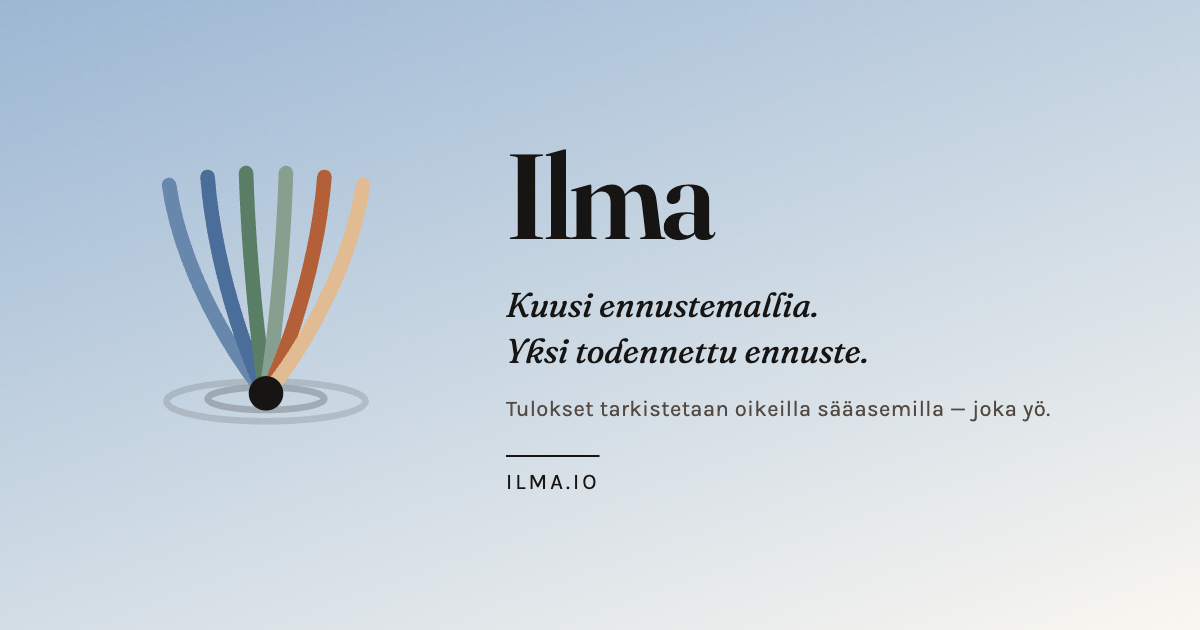
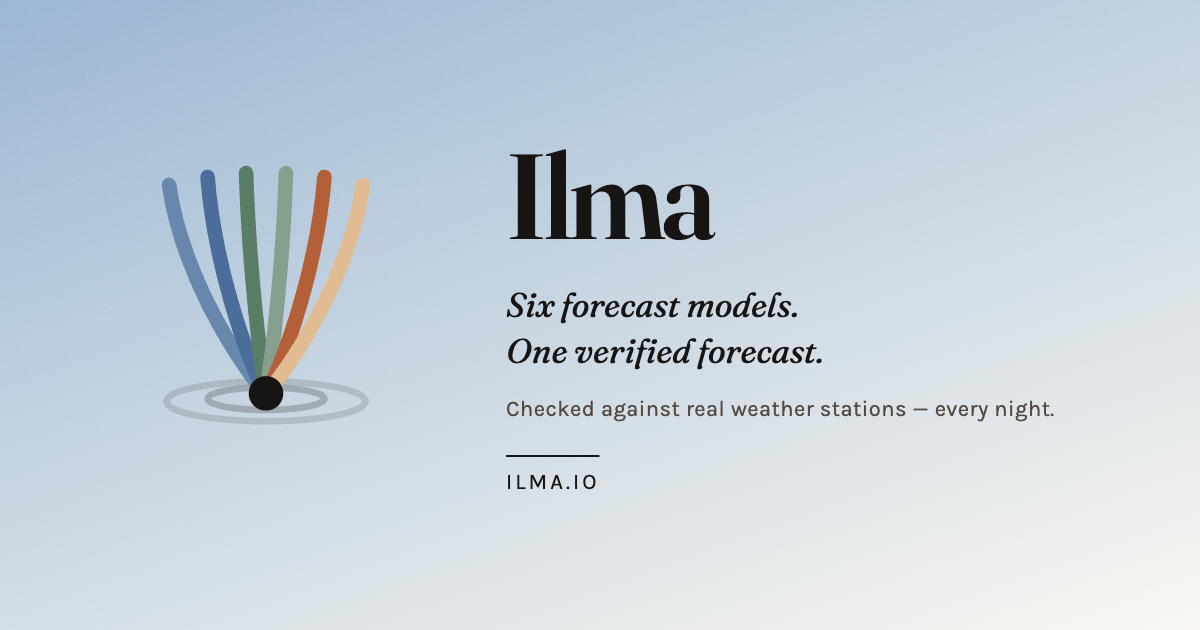
Social share card in English
Matches the new English-default site; re-rendered og.png from
design/og-image.html.

Claude-Session: https://claude.ai/code/session_01SqeeMnWqkFyrPerSjqLPGJ

Changed region(s): [[0.4008, 0.4524, 0.74, 0.6032], [0.4008, 0.6333, 0.8942, 0.6635]]

diff --git a/design/og-image.html b/design/og-image.html
@@ -46,8 +46,8 @@
   </div>
   <div class="txt">
     <div class="name">Ilma</div>
-    <div class="tag">Kuusi ennustemallia.<br>Yksi todennettu ennuste.</div>
-    <div class="sub">Tulokset tarkistetaan oikeilla sääasemilla — joka yö.</div>
+    <div class="tag">Six forecast models.<br>One verified forecast.</div>
+    <div class="sub">Checked against real weather stations — every night.</div>
     <div class="url">ilma.io</div>
   </div>
 </div>
